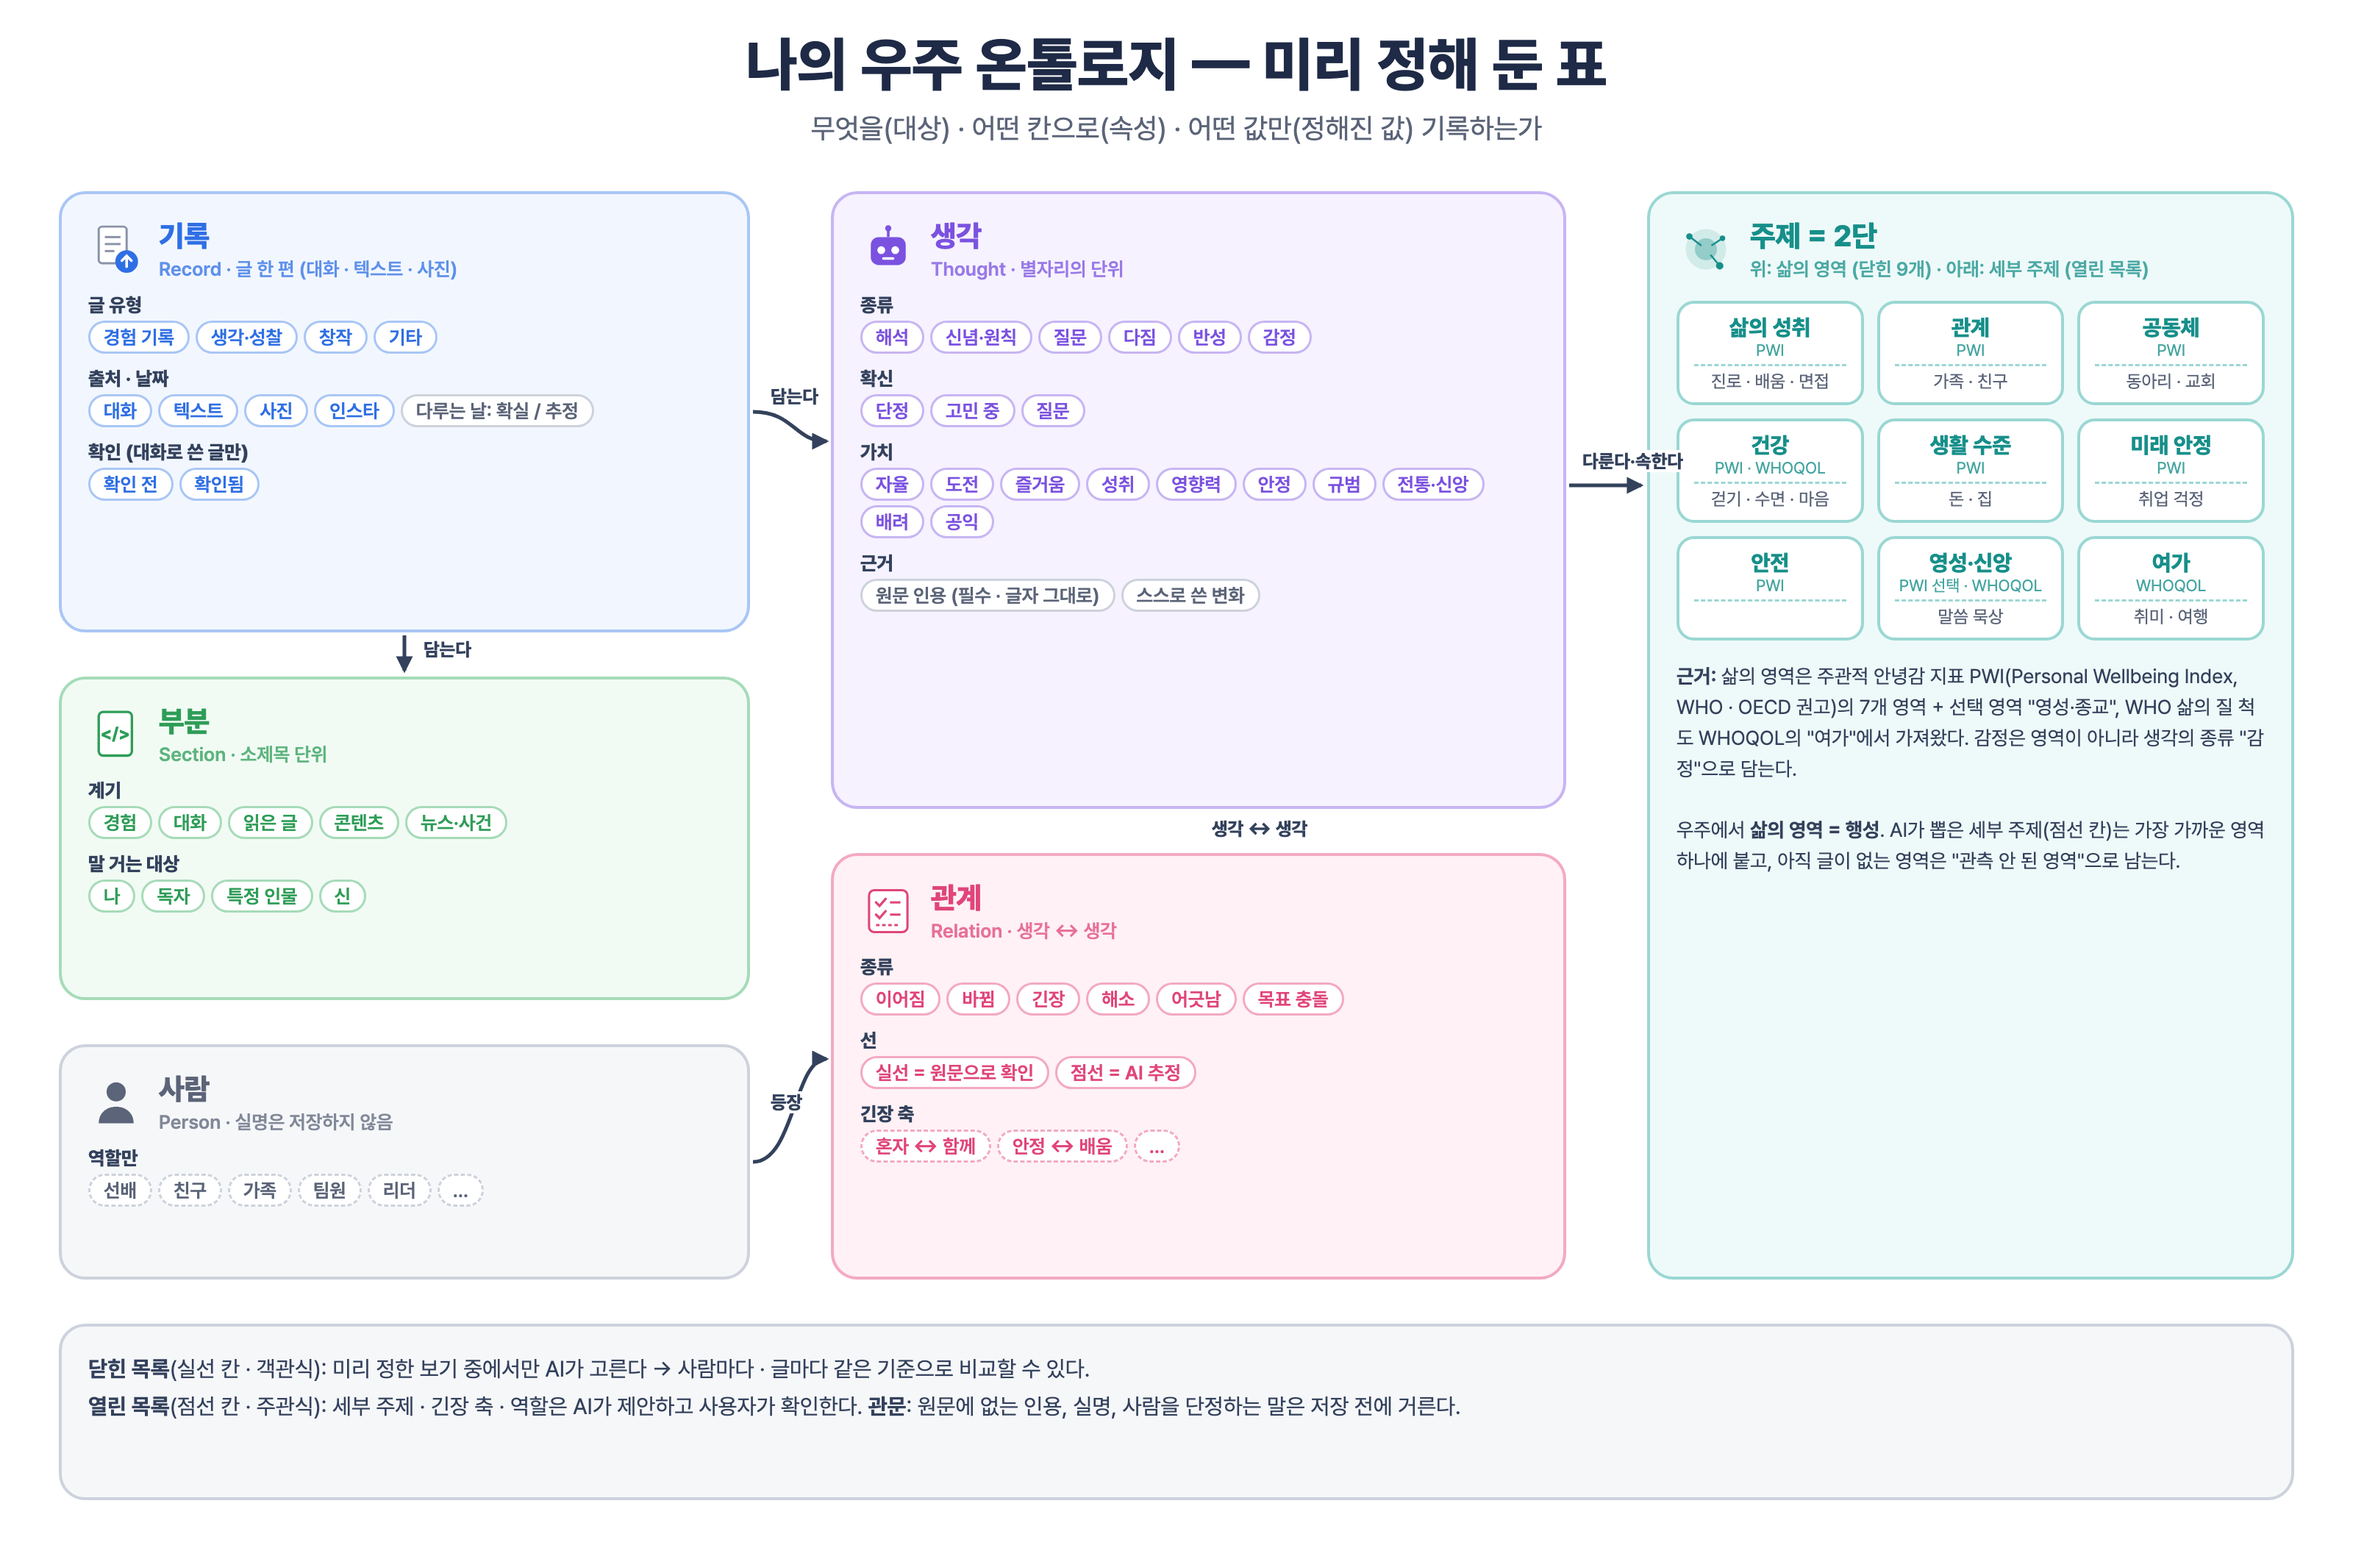
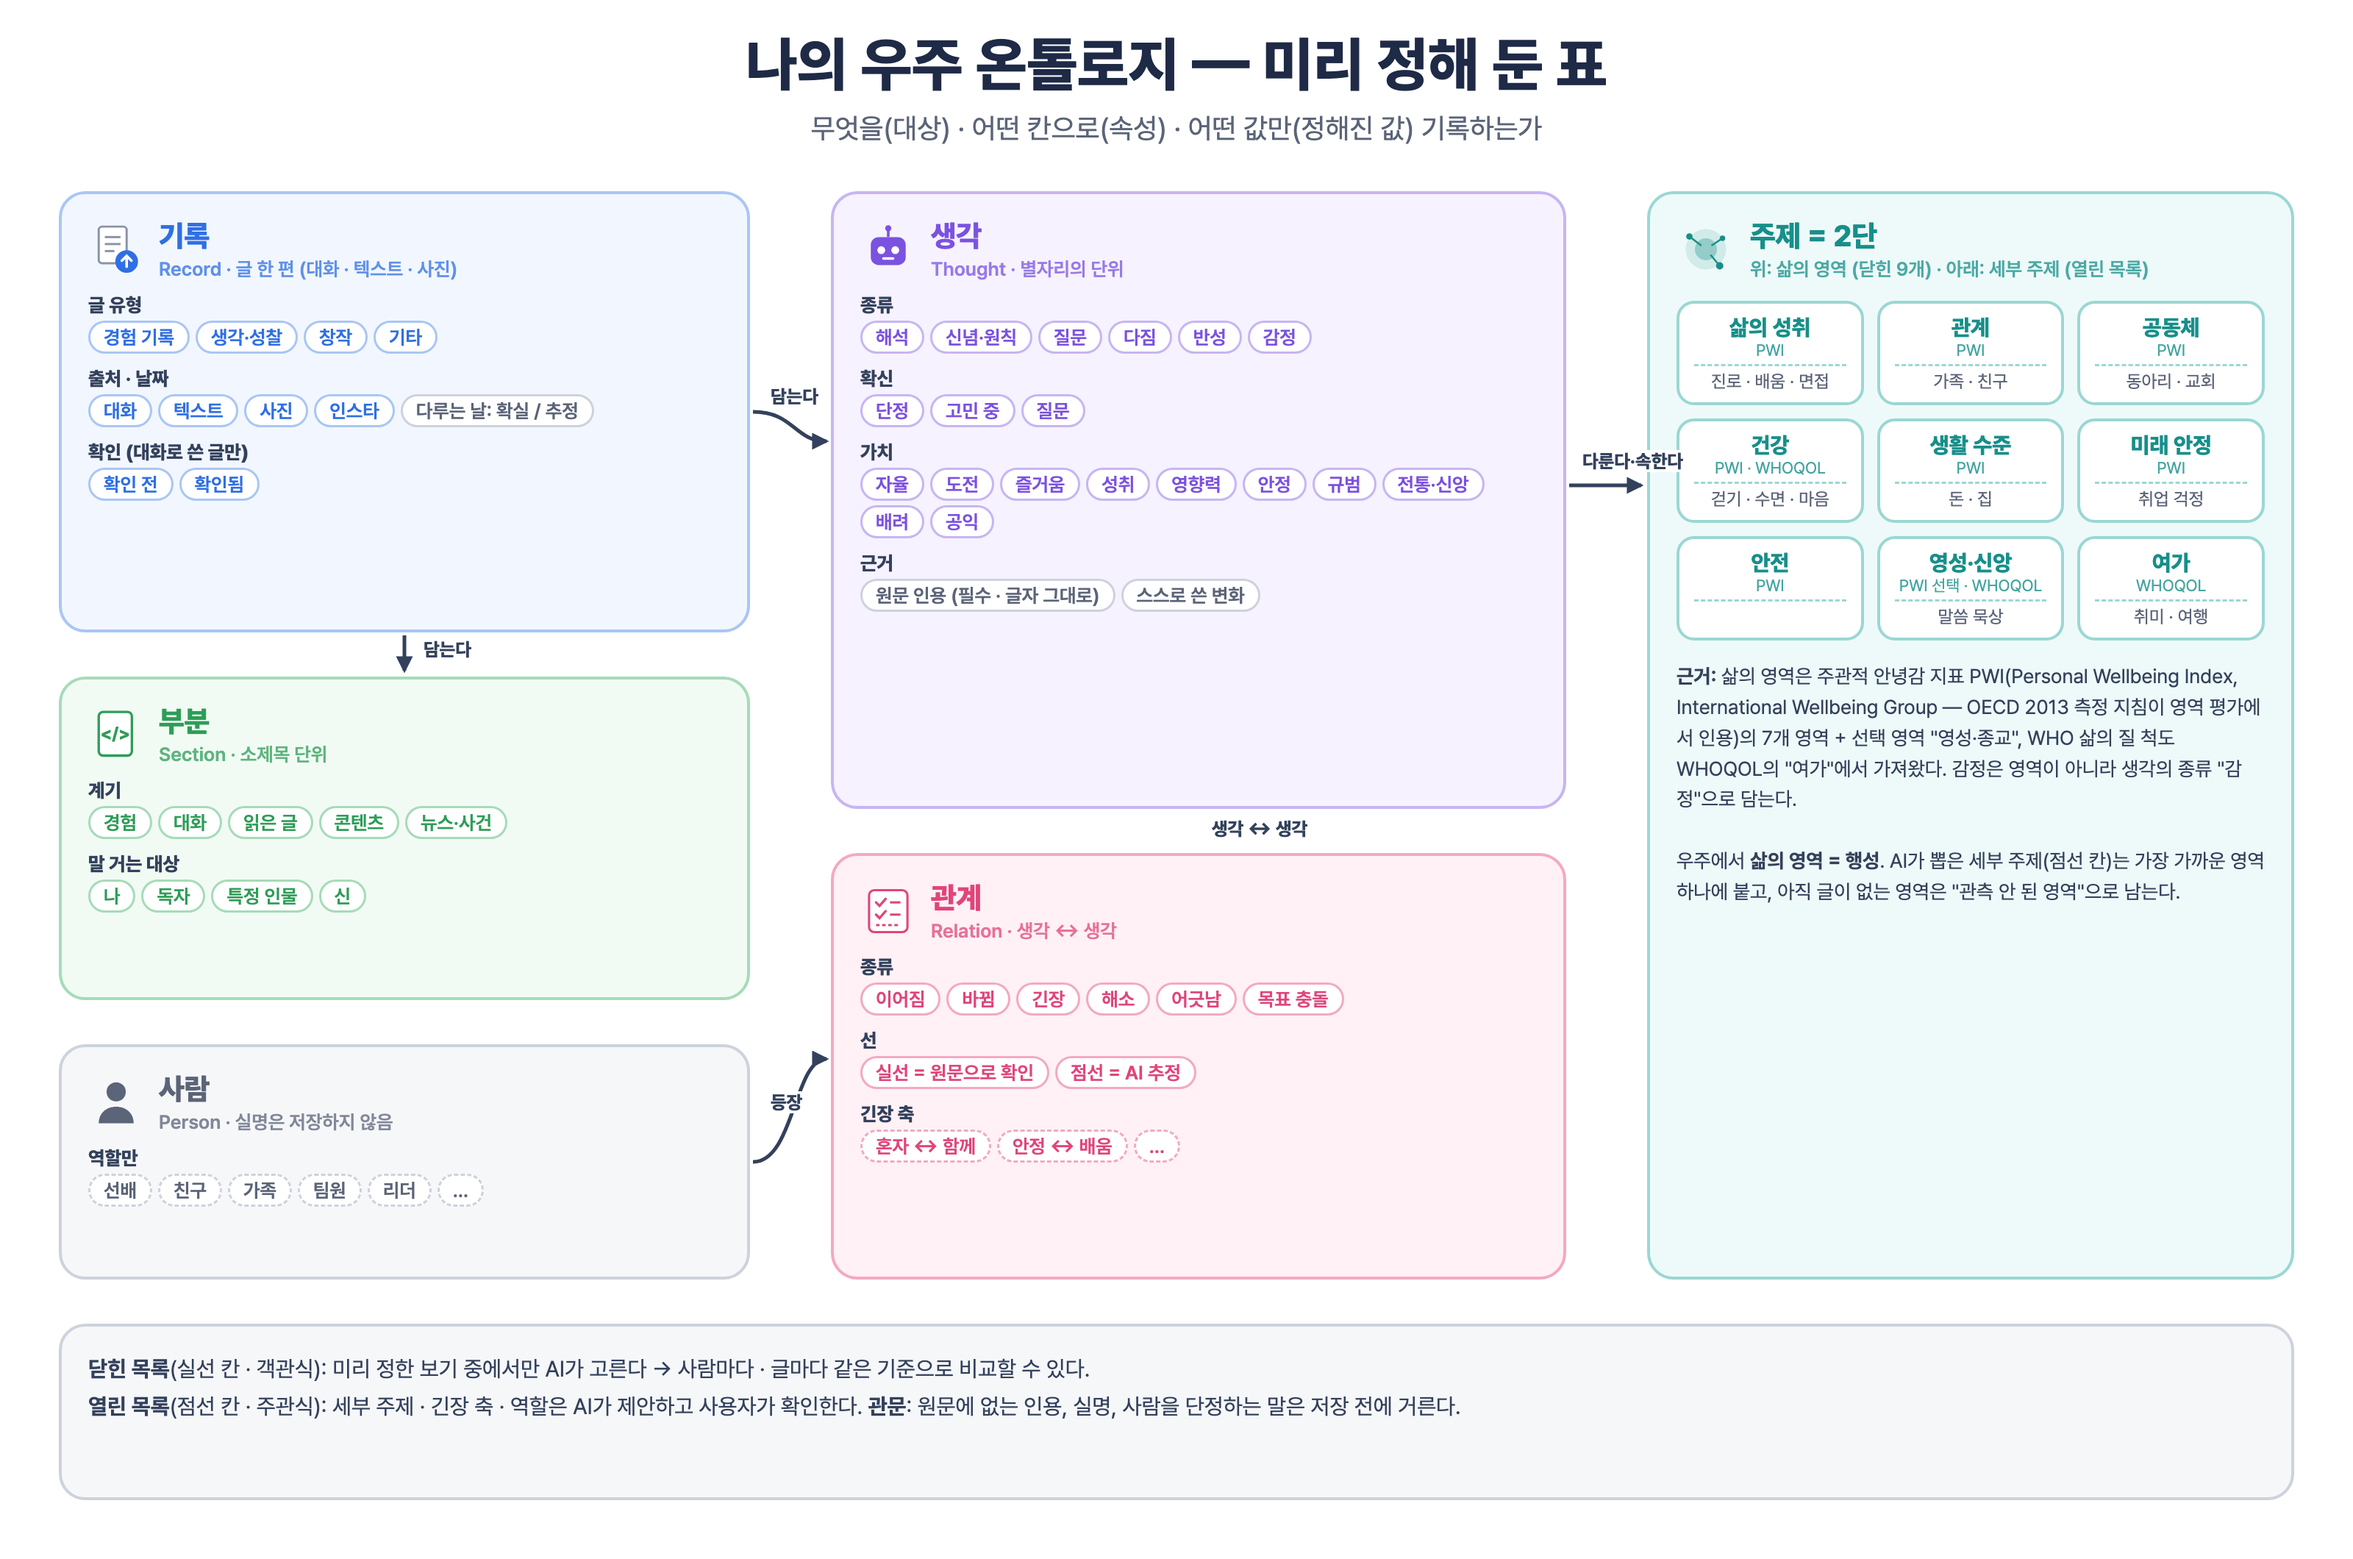
삶의 영역 근거 표현 바로잡기: PWI는 OECD 2013 지침이 인용 (WHO 권고 근거 없음)

Changed region(s): [[0.7188, 0.4358, 0.9688, 0.5915]]

diff --git a/tools/diagrams/make_diagrams.py b/tools/diagrams/make_diagrams.py
@@ -378,7 +378,7 @@ def d6():
               f'<div class="head">{icon("nebula", dark, 40)}<div style="margin-left:10px"><div class="t" style="font-size:20px;color:{dark}">주제 = 2단</div>'
               f'<div class="en" style="color:{dark}">위: 삶의 영역 (닫힌 9개) · 아래: 세부 주제 (열린 목록)</div></div></div>'
               f'<div style="display:grid;grid-template-columns:1fr 1fr 1fr;gap:9px;margin-top:14px">{grid}</div>'
-              f'<div class="d" style="font-size:13.5px;margin-top:14px;line-height:1.55"><b>근거:</b> 삶의 영역은 주관적 안녕감 지표 PWI(Personal Wellbeing Index, WHO · OECD 권고)의 7개 영역 + 선택 영역 "영성·종교", '
+              f'<div class="d" style="font-size:13.5px;margin-top:14px;line-height:1.55"><b>근거:</b> 삶의 영역은 주관적 안녕감 지표 PWI(Personal Wellbeing Index, International Wellbeing Group — OECD 2013 측정 지침이 영역 평가에서 인용)의 7개 영역 + 선택 영역 "영성·종교", '
               f'WHO 삶의 질 척도 WHOQOL의 "여가"에서 가져왔다. 감정은 영역이 아니라 생각의 종류 "감정"으로 담는다.<br><br>'
               f'우주에서 <b>삶의 영역 = 행성</b>. AI가 뽑은 세부 주제(점선 칸)는 가장 가까운 영역 하나에 붙고, 아직 글이 없는 영역은 "관측 안 된 영역"으로 남는다.</div>')
     # 연결선 (술어)

diff --git a/README.md b/README.md
@@ -25,7 +25,7 @@
 
 - **닫힌 목록(객관식):** AI가 정해 둔 보기 안에서만 고른다. 글 유형 4, 생각 종류 6, 확신 3, 가치 10, 관계 6, **삶의 영역 9**.
 - **열린 목록(주관식):** 세부 주제 · 긴장 축 · 역할은 글에서 나온 말을 쓰고 사용자가 확인한다.
-- **삶의 영역 9개**는 주관적 안녕감 척도 PWI(Personal Wellbeing Index, WHO · OECD 권고)의 7개 영역(삶의 성취 · 관계 · 공동체 · 건강 · 생활 수준 · 미래 안정 · 안전) + 선택 영역 영성·신앙, WHO 삶의 질 척도 WHOQOL의 여가에서 가져왔다. 세부 주제는 가장 가까운 영역 하나에 붙는다(`universe.py`의 `DOMAINS`).
+- **삶의 영역 9개**는 주관적 안녕감 척도 PWI(Personal Wellbeing Index, International Wellbeing Group — OECD 2013 측정 지침이 영역 평가에서 인용)의 7개 영역(삶의 성취 · 관계 · 공동체 · 건강 · 생활 수준 · 미래 안정 · 안전) + 선택 영역 영성·신앙, WHO 삶의 질 척도 WHOQOL의 여가에서 가져왔다. 세부 주제는 가장 가까운 영역 하나에 붙는다(`universe.py`의 `DOMAINS`).
 
 ## 전체 구조
 
